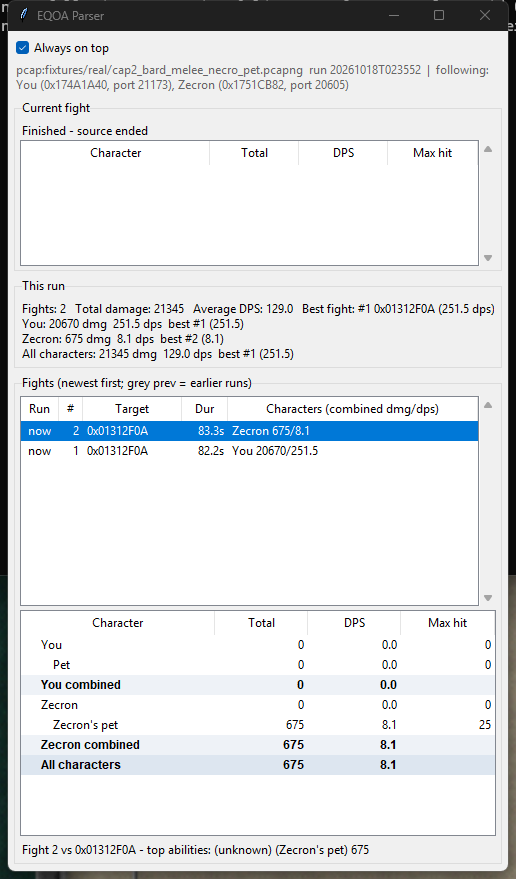
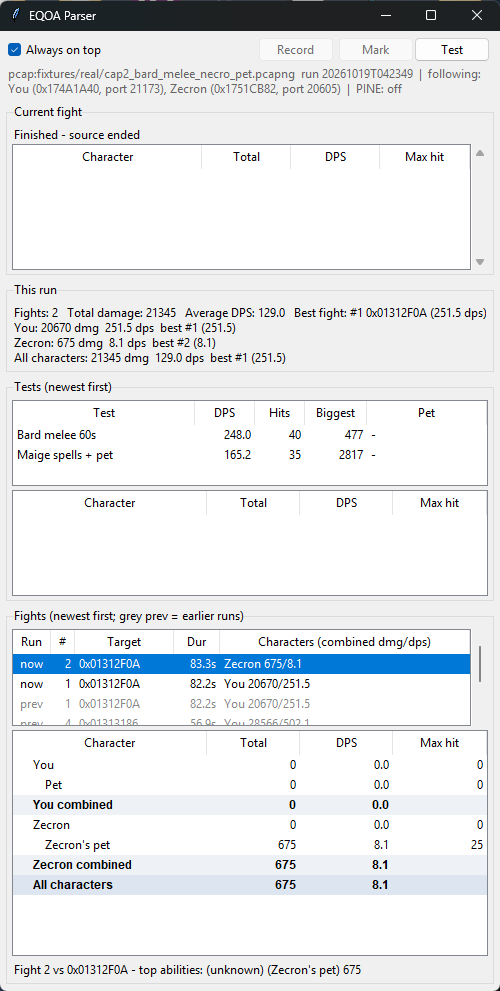
README: new screenshot, v0.3.0 features, PINE in safety notes

diff --git a/README.md b/README.md
@@ -1,7 +1,8 @@
 # EQOA Parser
 
 A damage meter for EverQuest Online Adventures on PCSX2, for players on the Sandstorm server. It shows how much damage
-you and your pet do in each fight, and works with two emulators running at once.
+you and your pet do in each fight, works with two emulators running at once, and has a timed test mode for comparing
+pets or gear on a dummy. With PINE turned on it can also show your group's damage.
 
 ![EQOA Parser window](docs/images/screenshot.png)
 
@@ -33,20 +34,19 @@ comes back into view.
 
 ## Safety and privacy
 
-The meter only listens to the traffic between your PC and the Sandstorm server (`5.161.217.188`). It doesn't send
-anything, and it doesn't read or change the emulator or the game. The only thing it writes is the fight summaries, on
-your own PC; nothing gets uploaded. It needs Administrator rights because Windows won't show network packets to a
-normal program.
+The meter listens to the traffic between your PC and the Sandstorm server (`5.161.217.188`) and never sends anything.
+It never changes the emulator or the game. Without PINE it doesn't touch the emulator at all; with PINE on it reads the
+emulator's memory for names and your group, and never writes to it. Everything it saves (fights, test results, and
+recordings if you make any) stays on your PC; nothing gets uploaded. It needs Administrator rights because Windows
+won't show network packets to a normal program.
 
 It's a passive tool, but it's still worth checking Sandstorm's rules on third-party programs before you use it.
 
 ## Recording a fight
 
-Press **Record** in the window to save the server's packets to a `.pcapng` file, and **Mark** to add a short note at the
-current moment (for example "pet died"); press **Stop recording** when you are done. Files go to a `captures` folder next
-to `EQOAParser.exe`, named like `EQOA-20261019-203000.pcapng`, with your notes in a matching `.marks.txt`. A recording
-only holds packets the server sent to you, never anything your PC sent, so it is safe to share. From a terminal,
-`--live --record` records the whole session.
+If something looks wrong, press **Record**, play until it happens, and press **Mark** to note the moment. The file in
+the `captures` folder next to the exe only holds what the server sent you, so it's safe to send to whoever is helping
+you look into it.
 
 ## Testing on a dummy
 
@@ -55,8 +55,7 @@ spells, press **Test**, name it (for example "Djinni Vizier 1"), keep the length
 dummy. The clock starts at your first damage and DPS is total damage divided by the full length, so every run is
 measured the same way. Keep the setup identical, do three runs of each thing and compare them. Results appear in the
 Tests list with the per-character breakdown, are saved in `runs/<date>.json`, and show the pet's name when PINE is on.
-If a run looks off, press **Record** before it and **Mark** the moment. From a terminal, `--no-gui --test 180
---test-label "Djinni Vizier 1"` runs one test.
+From a terminal, `--no-gui --test 180 --test-label "Djinni Vizier 1"` runs one test.
 
 ## Two emulators
 
@@ -89,7 +88,7 @@ address. If Sandstorm ever moves to a new address, change `server_ip` in the sam
 This is an early version and it has only been tested on one PC. The packet format was pieced together from real game
 captures, so some of it is educated guesswork.
 
-- Monsters that were already on screen when the meter started show as IDs instead of names.
+- Without PINE, monsters that were already on screen when the meter started show as IDs instead of names.
 - Spell and ability names aren't decoded yet; they show as "(unknown)".
 - Group members on other people's PCs only show up with PINE on (see above).
 
@@ -97,7 +96,7 @@ Notes on how the packets were decoded, and which parts are confirmed, are in [do
 
 ## Roadmap
 
-1. Names for monsters that were already on screen.
+1. Names for monsters that were already on screen, without needing PINE.
 2. Spell and ability names.
 3. A transparent overlay you can click through.
 
@@ -110,9 +109,10 @@ python -m eqoa_parser --live          # needs an Administrator terminal; or doub
 python -m eqoa_parser --pcap file.pcapng --no-gui   # replay a saved capture, no admin needed
 python -m eqoa_parser --help
 ```
-To run the tests, install `requirements-dev.txt` and run `python -m pytest -q`. They use two real captures in
-`fixtures/real/`, trimmed down to the server's packets only. To build the exes and the zip, run `packaging\build-exe.bat`;
-everything ends up in `dist\`. The design notes are in [docs/CONTRACTS.md](docs/CONTRACTS.md), and the test and
+To run the tests, install `requirements-dev.txt` and run `python -m pytest -q`. They use three real captures in
+`fixtures/real/`, trimmed down to the server's packets only with `tools/sanitize_pcapng.py`. To build the exes and the
+zip, run `packaging\build-exe.bat`; everything ends up in `dist\`. `packaging\build-prerelease.bat` builds a test copy
+in `prerelease\` with PINE already switched on. The design notes are in [docs/CONTRACTS.md](docs/CONTRACTS.md), and the test and
 verification history is in [docs/VERIFICATION.md](docs/VERIFICATION.md).
 
 If you record your own capture for debugging (the `pktmon` steps are in [docs/live-capture.md](docs/live-capture.md)),
